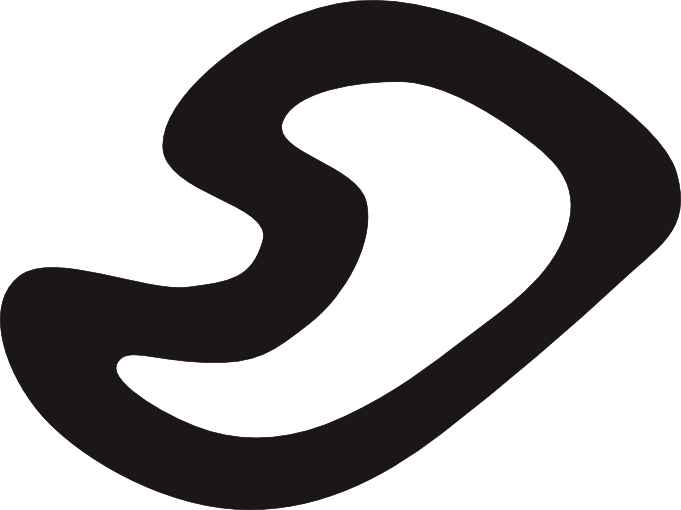
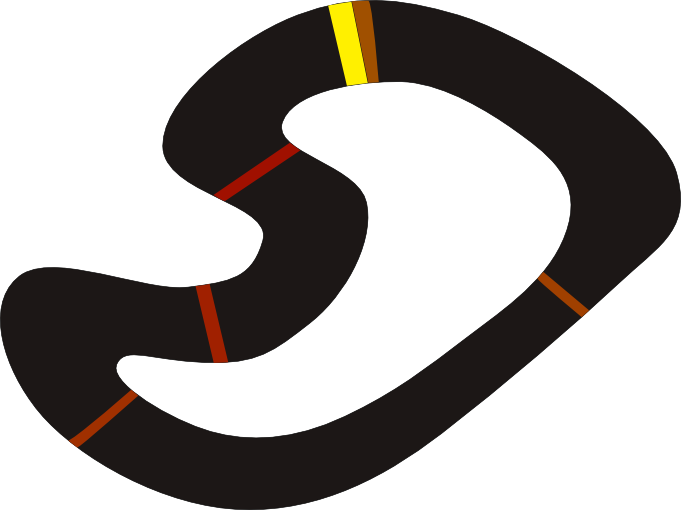
added checkpoints

diff --git a/src/objects/TrackInfoExtractor.js b/src/objects/TrackInfoExtractor.js
@@ -1,3 +1,17 @@
+class PointInfo {
+  constructor(x,y){
+    this.on_track = false;
+    this.on_finish = false;
+    this.checkpoint = undefined;
+    this.x = x;
+    this.y = y;
+  }
+
+  key(){
+    ""+this.x+","+this.y
+  }
+}
+
 class TrackInfoExtractor {
 
 	constructor(game, track) {
@@ -6,16 +20,13 @@ class TrackInfoExtractor {
     this.num_points = track.num_points;
     this.get_map_data(track.name);
     this.get_matrix();
-
-    if(!track.buffer) {
-      this.gather_viable_points();
-      console.log(JSON.stringify(this.points))
-    } else {
-      this.points = track.buffer.points;
-    }
-
+    this.gather_viable_points();
+    this.gather_checkpoints();
+    this.gather_point_scores();
     this.add_debug_map();
   }
+
+  key(x,y){return ""+x+","+y;}
 
   get_map_data(name){
     let map_image = this.game.cache.getImage(name);
@@ -42,16 +53,34 @@ class TrackInfoExtractor {
         let pt = this.snap_to_track(new Phaser.Point(x,y))
         if(!this.is_on_track(this.get_map(pt.x, pt.y))){continue;}
         let info = this.points.get(""+pt.x+","+pt.y);
-        if(!info){info = {x:pt.x, y:pt.y};}
+        if(!info){info = new PointInfo(pt.x, pt.y) };
         if(this.is_on_track(px)){info.on_track = true;}
         if(this.is_on_finish_line(px)){info.on_finish = true;}
         let checkpoint = this.is_on_check_point(px);
         if(checkpoint){info.checkpoint = checkpoint;}
-        this.points.set(""+pt.x+","+pt.y, info);
+        this.points.set(info.key(), info);
         }
       }
-    for (var [key, value] of this.points.entries()) {
-      console.log(key + " = " + value);
+  }
+
+  gather_checkpoints(){
+    this.checkpoint_numbers =new Set([]);
+    for (let [key, info] of this.points.entries()) {
+      if(info.checkpoint){
+        this.checkpoint_numbers.add(info.checkpoint);
+      }
+    }
+  }
+
+  gather_point_scores(){
+    let final_checkpoint = Math.max(...this.checkpoint_numbers);
+    let seen_points = [...this.points.values()].filter(i =>i.checkpoint);
+    let scores = new Map([])
+    for(let p of seen_points){scores[p.key] = 0;}
+    while(p = seen_points.pop()){
+      for(let [x,y] of [[-1,-1], [-1,0], [-1,1],   [0,-1],[0,1],  [1,-1], [1,0], [1,1]]){
+        
+      }
     }
   }
 
@@ -87,7 +116,7 @@ class TrackInfoExtractor {
   }
 
   is_on_check_point(px){
-    if(px.r == 0xf0){
+    if(px.r == 0xa0){
       return px.g;
     } else {
       return false
